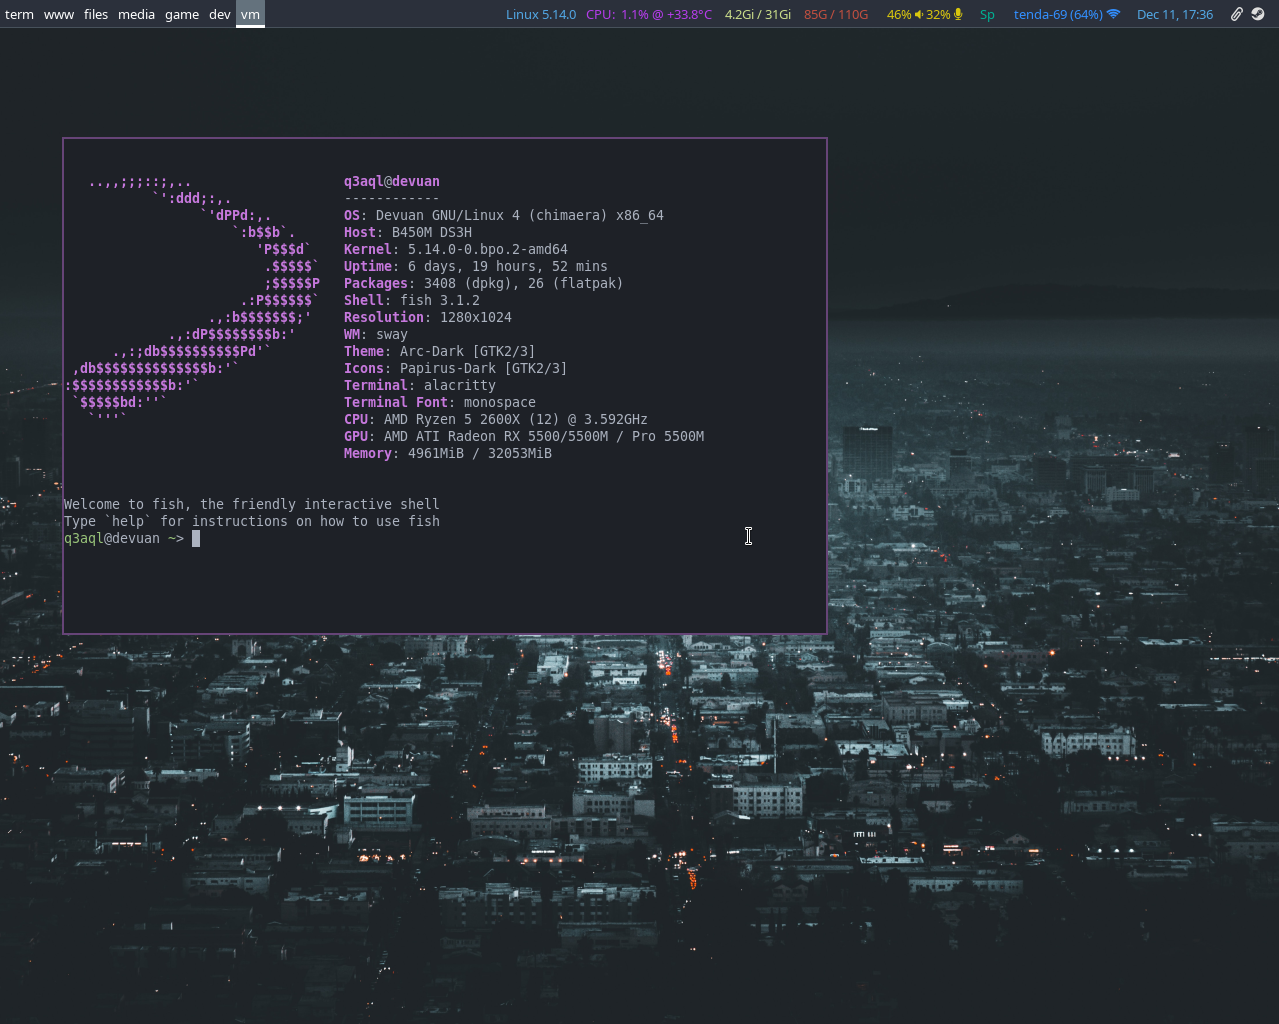
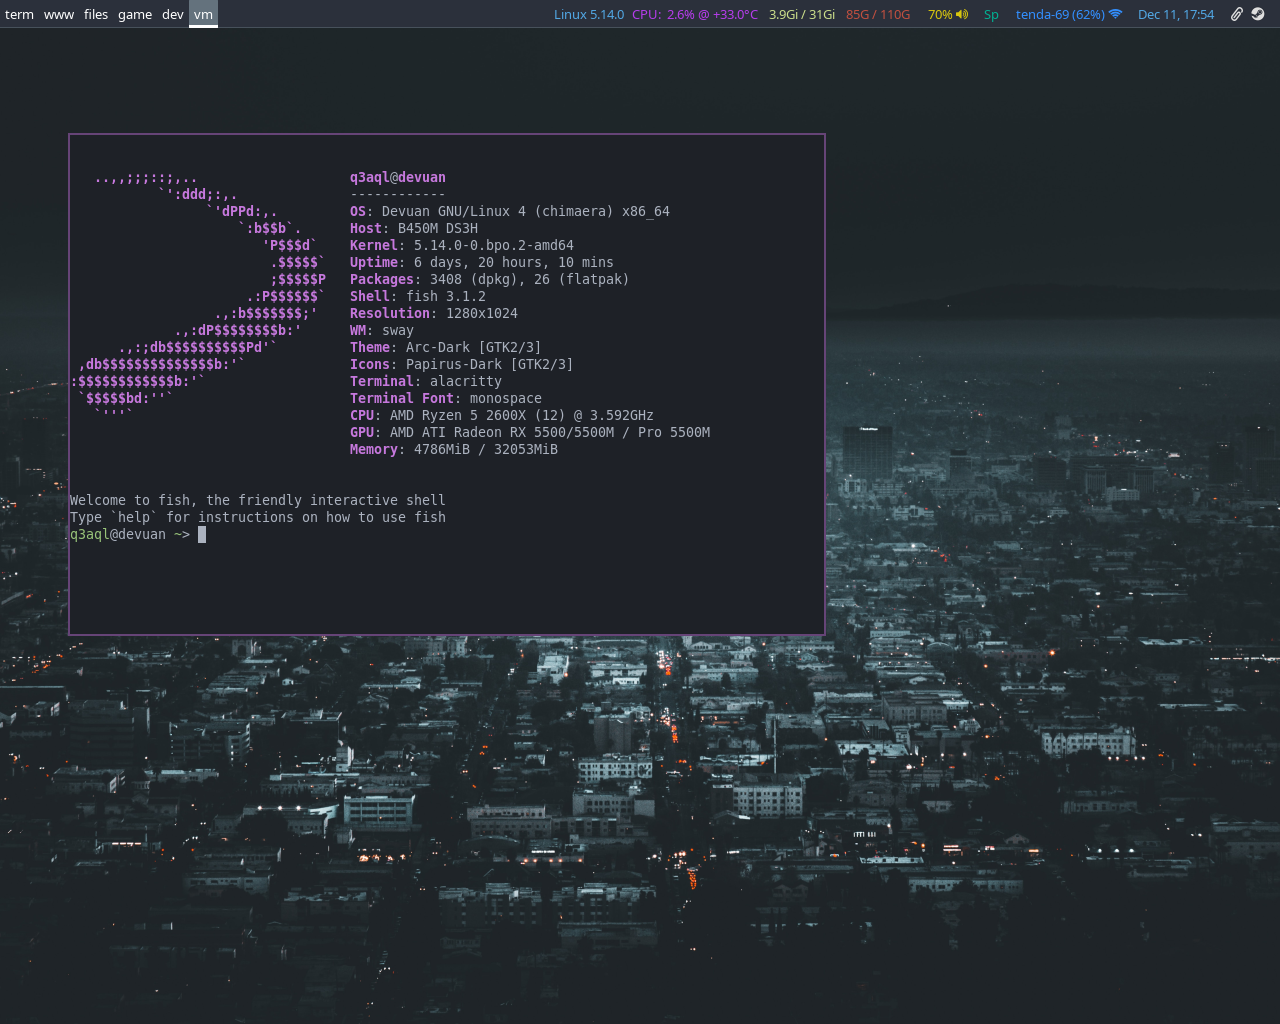
Dotfiles config update (2021-12-11)

diff --git a/.config/waybar/style.css b/.config/waybar/style.css
@@ -105,27 +105,27 @@ window#waybar.chromium {
 
 #custom-disk {
     color: #C14F3F;
-    margin: 0 2px;
+    margin: 0 1px;
 }
 
 #custom-kernel {
     color: #51A6E3;
-    margin: 0 2px;
+    margin: 0 1px;
 }
 
 #custom-cpu {
     color: #B63CEC;
-    margin: 0 2px;
+    margin: 0 1px;
 }
 
 #custom-memory {
     color: #CADD8A;
-    margin: 0 2px;
+    margin: 0 1px;
 }
 
 #custom-clock {
     color: #51A6E3;
-    margin: 0 2px;
+    margin: 0 1px;
 }
 
 #battery {
@@ -242,7 +242,7 @@ label:focus {
 
 #language {
     color: #00b093;
-    padding: 0 2px;
-    margin: 0 2px;
+    padding: 0 1px;
+    margin: 0 1px;
     min-width: 16px;
 }
